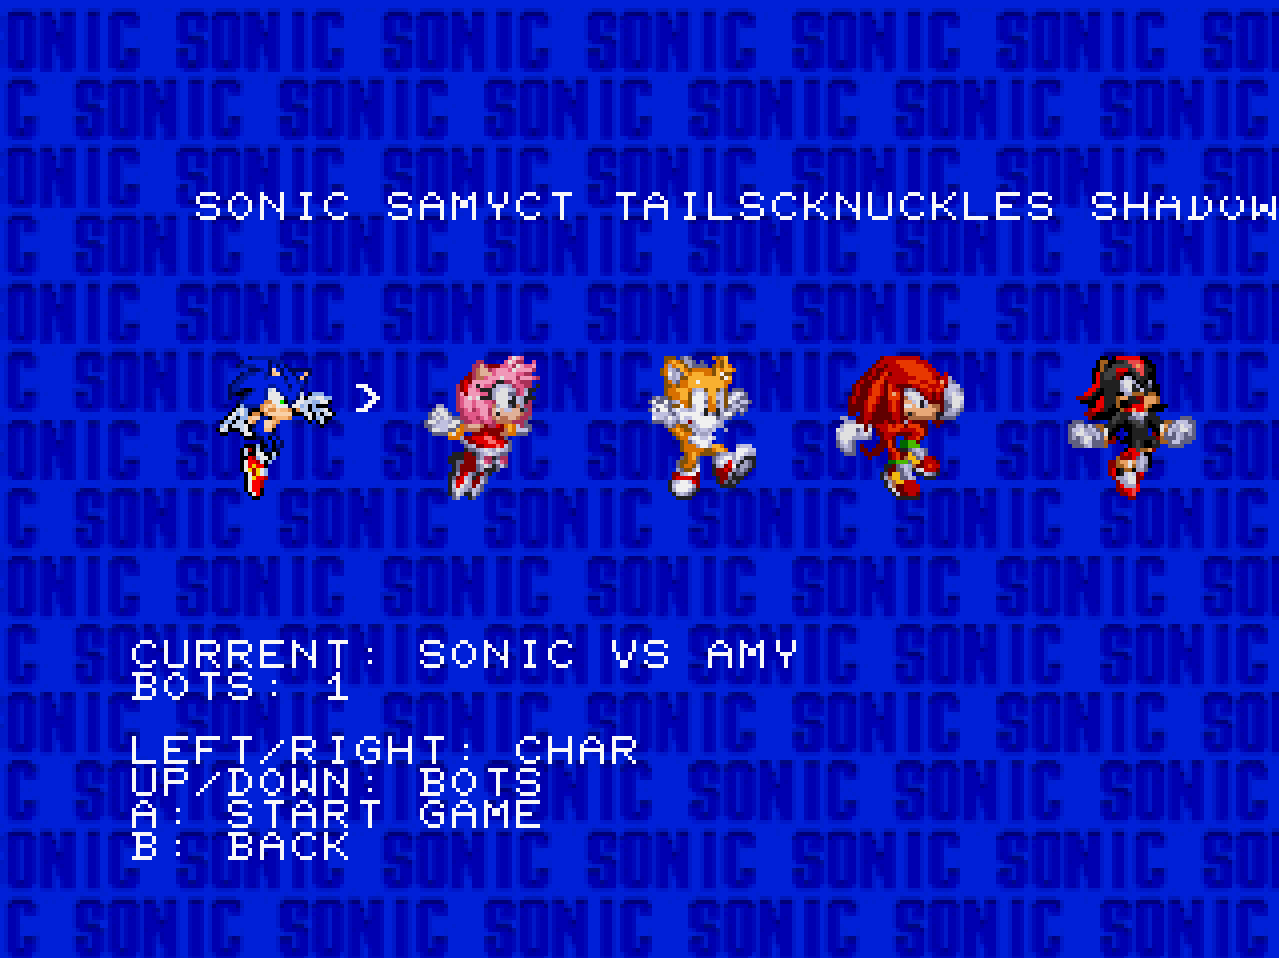
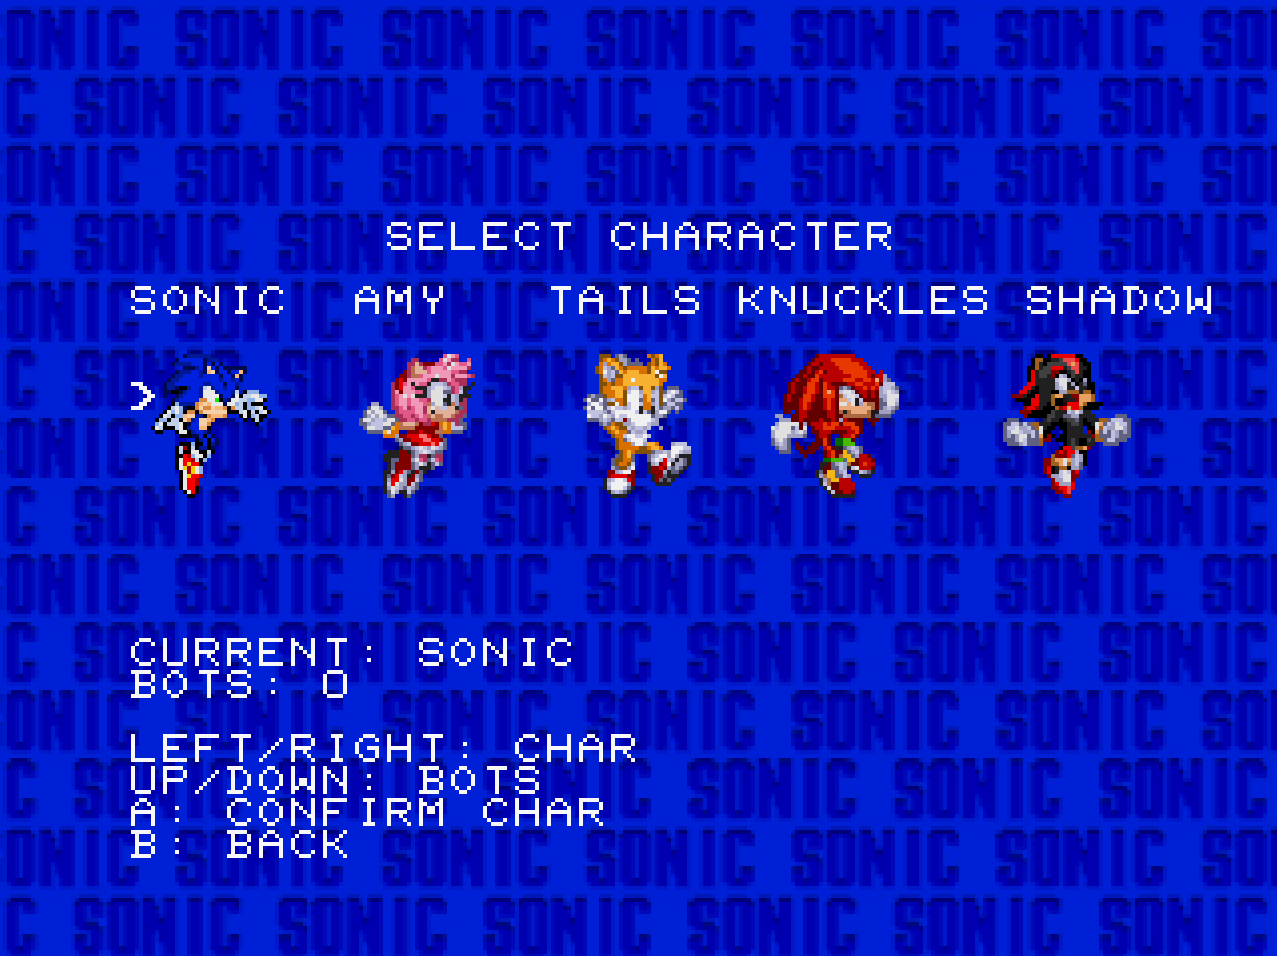
Update 20260308

diff --git a/src/class/ui_control.c b/src/class/ui_control.c
@@ -591,7 +591,7 @@ void ui_control_draw_character_menu(const ui_control_state_t *state)
         return;
     }
 
-    jo_printf(12, 6, "SELECT CHARACTER");
+    jo_printf(12, 7, "SELECT CHARACTER");
 
     for (idx = 0; idx < UiCharacterCount; ++idx)
     {
@@ -616,12 +616,12 @@ void ui_control_draw_character_menu(const ui_control_state_t *state)
             sprite_id = menu_shadow_jump_sprite_id;
 
         {
-            int name_x = item_x[idx] / 8;
+            int name_x = (item_x[idx] / 8) - 2;
             if (idx == UiCharacterKnuckles)
                 --name_x;
             else if (idx == UiCharacterShadow)
                 ++name_x;
-            jo_printf(name_x, MENU_NAME_Y, "%s", character_names[idx]);
+            jo_printf(name_x, 9, "%s", character_names[idx]);
         }
         if (sprite_id >= 0)
         {
@@ -630,7 +630,7 @@ void ui_control_draw_character_menu(const ui_control_state_t *state)
                 jo_sprite_enable_half_transparency();
                 jo_sprite_enable_shadow_filter();
             }
-            jo_sprite_draw3D2(sprite_id, item_x[idx], MENU_SPRITE_Y, 420);
+            jo_sprite_draw3D2(sprite_id, item_x[idx]-16, MENU_SPRITE_Y, 420);
             if (is_locked)
             {
                 jo_sprite_disable_shadow_filter();
